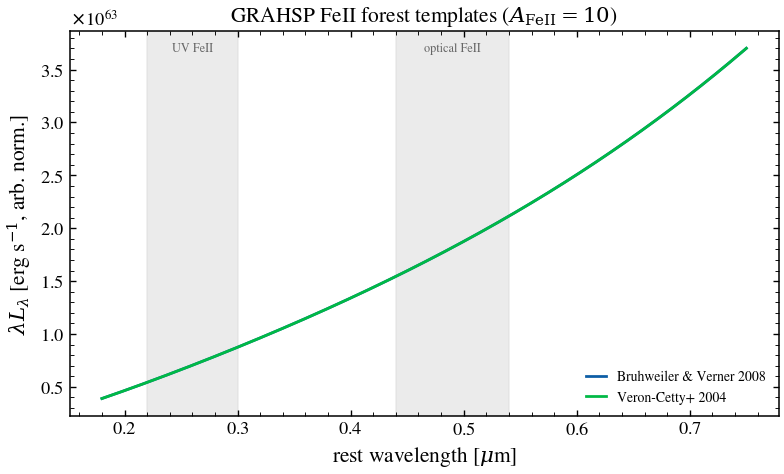
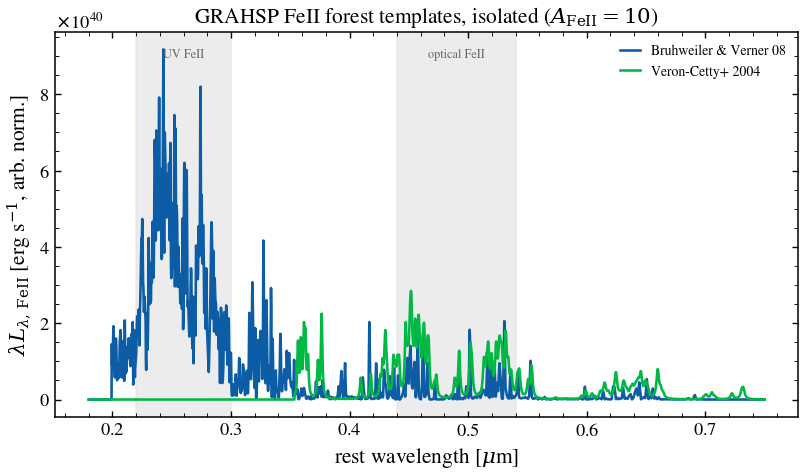
docs(agn): isolate demonstrated component in GRAHSP Balmer + FeII gallery examples
The first cut plotted the full SED, where the BBB continuum and emission
lines swamped the feature being shown — the a_bc curves and the two FeII
templates were visually indistinguishable. Rework:
- Balmer: suppress lines/FeII/torus and zoom on the 3646 A edge; add an
  isolated-contribution panel. The small-blue-bump sawtooth is now clear.
- FeII: plot the isolated feii component (evaluate_grahsp_agn) so the
  Bruhweiler+Verner UV forest vs Veron-Cetty optical blends are distinct.
- torus_modes: drop the cool/warm gloss (lo/hi are template percentiles).

diff --git a/examples/agn/plot_grahsp_balmer_continuum.py b/examples/agn/plot_grahsp_balmer_continuum.py
@@ -8,10 +8,12 @@ following Grandi (1982): a 15,000 K blackbody truncated at the Balmer edge
 forest it builds the "small blue bump" seen blueward of ~4000 Å in type-1
 quasars.
 
-Here we sweep the strength parameter ``agn_grahsp_a_bc`` (upstream ``ABC``,
-the Balmer-continuum strength relative to the power-law at 3000 nm) from off
-to strong, holding everything else fixed. Watch the step at the Balmer edge
-and the way the Gaussian convolution smears it into the continuum.
+To isolate the effect we switch the emission lines, FeII forest and torus
+**off** (``a_lines=0``, ``a_feii=0``, ``fcov=0``), leaving only the bending
+power-law continuum, and sweep the strength parameter ``agn_grahsp_a_bc``
+(upstream ``ABC``) from off to strong. The left panel shows the continuum +
+Balmer bump zoomed on the edge; the right shows the Balmer contribution in
+isolation (zero above the edge, rising blueward).
 """
 
 import os
@@ -25,37 +27,57 @@ import matplotlib.pyplot as plt
 import numpy as np
 
 from tengri.analysis.plotting import setup_style
-from tengri.components.agn.grahsp.model import compute_grahsp_sed
+from tengri.components.agn.grahsp.model import (
+    GRAHSPParams,
+    compute_grahsp_sed,
+    evaluate_grahsp_agn,
+)
+from tengri.components.agn.grahsp.templates import load_grahsp_templates
 
 setup_style()
 warnings.filterwarnings("ignore", message=".*BakedInBackend.*")
 
-# Rest-frame optical/UV window where the Balmer continuum lives.
-wave_aa = jnp.logspace(np.log10(1500.0), np.log10(8000.0), 1200)
+# Rest-frame near-UV/optical window bracketing the Balmer edge.
+wave_aa = jnp.linspace(1500.0, 5000.0, 1400)
 wave_um = np.asarray(wave_aa) / 1e4
+templates = load_grahsp_templates()
 
 A_BC = [0.0, 0.5, 1.0, 2.0]
 colors = plt.cm.viridis(np.linspace(0.15, 0.85, len(A_BC)))
 
-fig, ax = plt.subplots(figsize=(7.0, 4.6))
+fig, (ax1, ax2) = plt.subplots(1, 2, figsize=(10.6, 4.4), sharex=True)
+
 for a_bc, c in zip(A_BC, colors):
-    # Disable FeII so the Balmer continuum is visible in isolation.
-    lnu = np.asarray(
+    # Continuum + Balmer only (lines / FeII / torus suppressed).
+    total = np.asarray(
         compute_grahsp_sed(
             wave_aa,
             agn_log_lbol=45.0,
+            agn_grahsp_a_lines=0.0,
             agn_grahsp_a_feii=0.0,
+            agn_grahsp_fcov=0.0,
             agn_grahsp_a_bc=a_bc,
-            agn_grahsp_linewidth_kms=5000.0,
         )
     )
-    ax.plot(wave_um, wave_um * lnu, color=c, lw=1.8, label=rf"$A_{{\rm BC}}={a_bc}$")
+    ax1.plot(wave_um, wave_um * total, color=c, lw=1.8, label=rf"$A_{{\rm BC}}={a_bc}$")
 
-ax.axvline(3646.0 / 1e4, color="0.5", ls=":", lw=1.0)
-ax.text(3646.0 / 1e4, ax.get_ylim()[1] * 0.92, " Balmer edge\n 3646 Å", fontsize=8, color="0.4")
-ax.set_xlabel(r"rest wavelength [$\mu$m]")
-ax.set_ylabel(r"$\lambda L_\lambda$ [erg s$^{-1}$, arb. norm.]")
-ax.set_title("GRAHSP Balmer continuum (Grandi 1982) strength sweep")
-ax.legend(frameon=False, fontsize=9)
+    # Balmer contribution in isolation (erg/s/nm -> lambda*L_lambda).
+    sed = evaluate_grahsp_agn(
+        wave_aa * 0.1,  # nm
+        GRAHSPParams(l5100=1e44, a_lines=0.0, a_feii=0.0, fcov=0.0, a_bc=a_bc),
+        templates,
+    )
+    balmer_llam = np.asarray(sed.balmer)  # erg/s/nm
+    ax2.plot(wave_um, wave_um * balmer_llam * 1e1, color=c, lw=1.8)
+
+for ax in (ax1, ax2):
+    ax.axvline(3646.0 / 1e4, color="0.5", ls=":", lw=1.0)
+    ax.set_xlabel(r"rest wavelength [$\mu$m]")
+ax1.text(3646.0 / 1e4, ax1.get_ylim()[1] * 0.9, " Balmer\n edge", fontsize=8, color="0.4")
+ax1.set_ylabel(r"$\lambda L_\lambda$ [erg s$^{-1}$, arb. norm.]")
+ax1.set_title("Bending power-law + Balmer continuum")
+ax1.legend(frameon=False, fontsize=9)
+ax2.set_title("Balmer continuum contribution (isolated)")
+fig.suptitle("GRAHSP Balmer continuum (Grandi 1982) strength sweep", y=1.02)
 fig.tight_layout()
 plt.show()

diff --git a/examples/agn/plot_grahsp_feii_templates.py b/examples/agn/plot_grahsp_feii_templates.py
@@ -6,12 +6,12 @@ The iron pseudo-continuum (the "FeII forest") is a defining feature of type-1
 AGN optical/UV spectra. GRAHSP offers two templates: the photoionisation
 model of **Bruhweiler & Verner (2008)** (the upstream default) and the
 empirical **Veron-Cetty, Joly & Veron (2004)** template. They differ most in
-the relative strength of the UV (2200-3000 Å) and optical (4400-5400 Å)
-multiplet blends.
+the relative strength and shape of the UV (2200-3000 Å) and optical
+(4400-5400 Å) multiplet blends.
 
-Here both are scaled to the same ``agn_grahsp_a_feii`` and overlaid on the
-bending power-law continuum, with the other emission lines suppressed so the
-iron blends are clear.
+To make the comparison clear we plot the FeII forest **in isolation** (the
+``feii`` component returned by :func:`evaluate_grahsp_agn`, not buried under
+the accretion-disc continuum), both scaled to the same ``agn_grahsp_a_feii``.
 """
 
 import os
@@ -25,39 +25,37 @@ import matplotlib.pyplot as plt
 import numpy as np
 
 from tengri.analysis.plotting import setup_style
-from tengri.components.agn.grahsp.model import compute_grahsp_sed
+from tengri.components.agn.grahsp.model import GRAHSPParams, evaluate_grahsp_agn
+from tengri.components.agn.grahsp.templates import load_grahsp_templates
 
 setup_style()
 warnings.filterwarnings("ignore", message=".*BakedInBackend.*")
 
-wave_aa = jnp.logspace(np.log10(1800.0), np.log10(7500.0), 1500)
+wave_aa = jnp.linspace(1800.0, 7500.0, 2400)
 wave_um = np.asarray(wave_aa) / 1e4
+templates = load_grahsp_templates()
 
 
-def feii_sed(template):
-    return np.asarray(
-        compute_grahsp_sed(
-            wave_aa,
-            agn_log_lbol=45.0,
-            agn_grahsp_a_lines=0.0,  # suppress the Gaussian emission lines
-            agn_grahsp_a_feii=10.0,  # strong iron so the blends are visible
-            feii_template=template,
-        )
+def feii_isolated(template):
+    sed = evaluate_grahsp_agn(
+        wave_aa * 0.1,  # nm
+        GRAHSPParams(l5100=1e44, a_feii=10.0, feii_template=template),
+        templates,
     )
+    return np.asarray(sed.feii)  # erg/s/nm
 
 
-fig, ax = plt.subplots(figsize=(7.4, 4.6))
-ax.plot(wave_um, wave_um * feii_sed("bruhweiler2008"), lw=1.8, label="Bruhweiler & Verner 2008")
-ax.plot(wave_um, wave_um * feii_sed("veroncetty2004"), lw=1.8, label="Veron-Cetty+ 2004")
+fig, ax = plt.subplots(figsize=(7.6, 4.6))
+ax.plot(wave_um, wave_um * feii_isolated("bruhweiler2008"), lw=1.7, label="Bruhweiler & Verner 08")
+ax.plot(wave_um, wave_um * feii_isolated("veroncetty2004"), lw=1.7, label="Veron-Cetty+ 2004")
 
-# Mark the classic UV and optical FeII blend regions.
 for lo, hi, lab in [(0.22, 0.30, "UV FeII"), (0.44, 0.54, "optical FeII")]:
-    ax.axvspan(lo, hi, color="0.85", alpha=0.5, zorder=0)
-    ax.text((lo + hi) / 2, ax.get_ylim()[1] * 0.95, lab, ha="center", fontsize=8, color="0.4")
+    ax.axvspan(lo, hi, color="0.88", alpha=0.6, zorder=0)
+    ax.text((lo + hi) / 2, ax.get_ylim()[1] * 0.93, lab, ha="center", fontsize=8, color="0.4")
 
 ax.set_xlabel(r"rest wavelength [$\mu$m]")
-ax.set_ylabel(r"$\lambda L_\lambda$ [erg s$^{-1}$, arb. norm.]")
-ax.set_title("GRAHSP FeII forest templates ($A_{\\rm FeII}=10$)")
+ax.set_ylabel(r"$\lambda L_{\lambda,\,\rm FeII}$ [erg s$^{-1}$, arb. norm.]")
+ax.set_title(r"GRAHSP FeII forest templates, isolated ($A_{\rm FeII}=10$)")
 ax.legend(frameon=False, fontsize=9)
 fig.tight_layout()
 plt.show()

diff --git a/examples/agn/plot_grahsp_torus_modes.py b/examples/agn/plot_grahsp_torus_modes.py
@@ -71,7 +71,7 @@ ax1.legend(frameon=False, fontsize=9)
 ax1.set_ylabel(r"$\lambda L_\lambda$ [erg s$^{-1}$, native norm.]")
 
 # Panel 2: MN12 temperature blend.
-temps = [(-1.0, "lo (cool, 25th pct)"), (0.0, "avg (mean)"), (1.0, "hi (warm, 75th pct)")]
+temps = [(-1.0, "lo (25th pct)"), (0.0, "avg (mean)"), (1.0, "hi (75th pct)")]
 colors = plt.cm.plasma(np.linspace(0.15, 0.8, len(temps)))
 for (t, lab), c in zip(temps, colors):
     ax2.plot(
